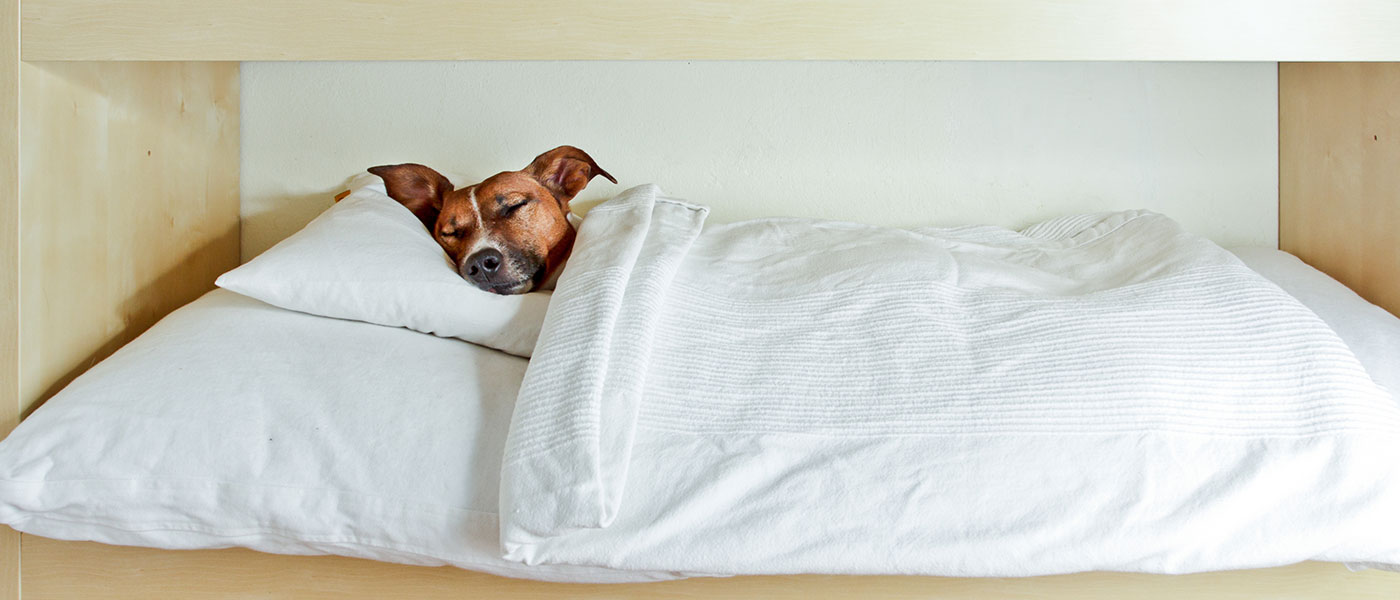
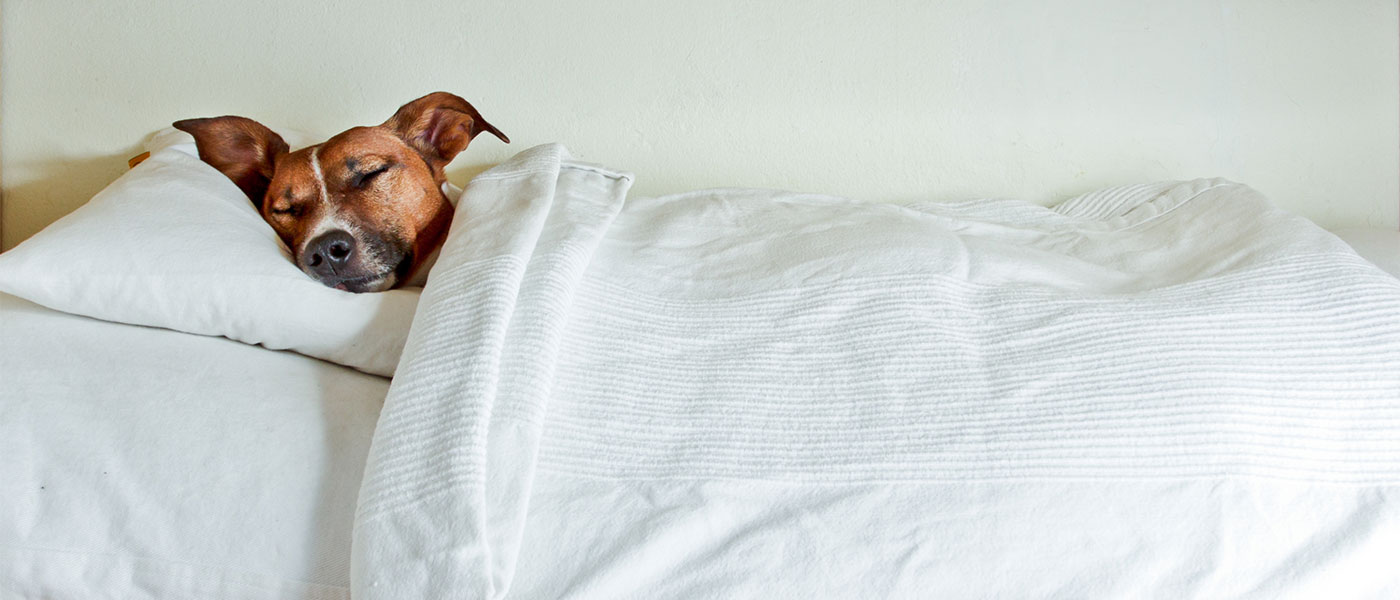
update picture and move inlne style to style sheet

diff --git a/app/assets/stylesheets/application.scss b/app/assets/stylesheets/application.scss
@@ -51,6 +51,10 @@
   color: rgba(255, 255, 255, 0.9);
 }
 
+#bottom-home-text {
+  line-height:200%;
+}
+
 .container-home .pull-right {
   margin-right: 40px !important;
 }
